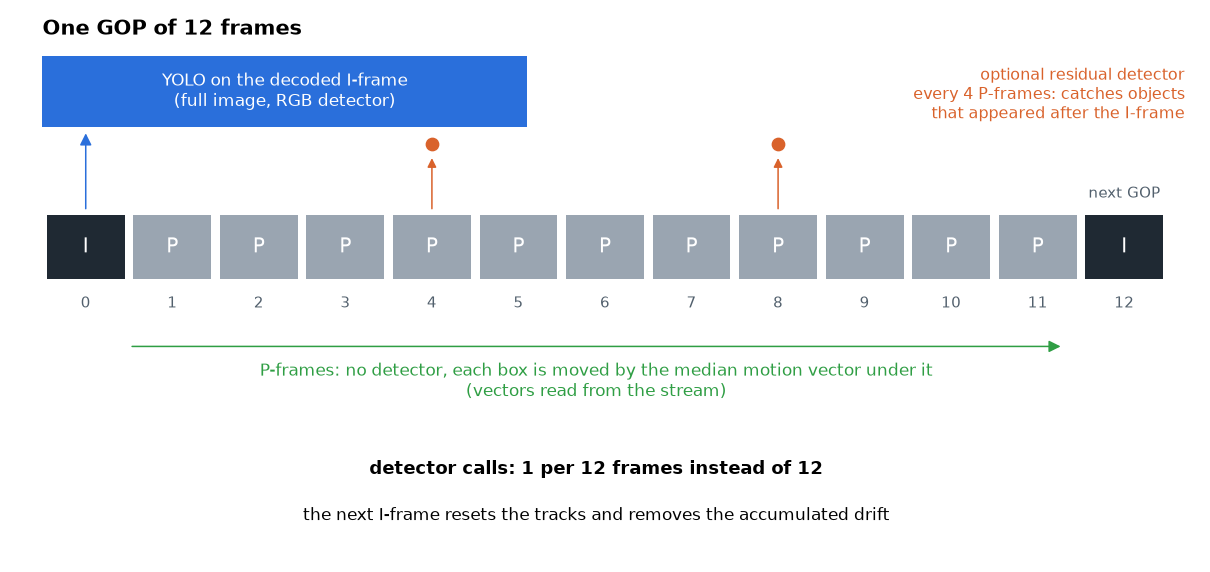
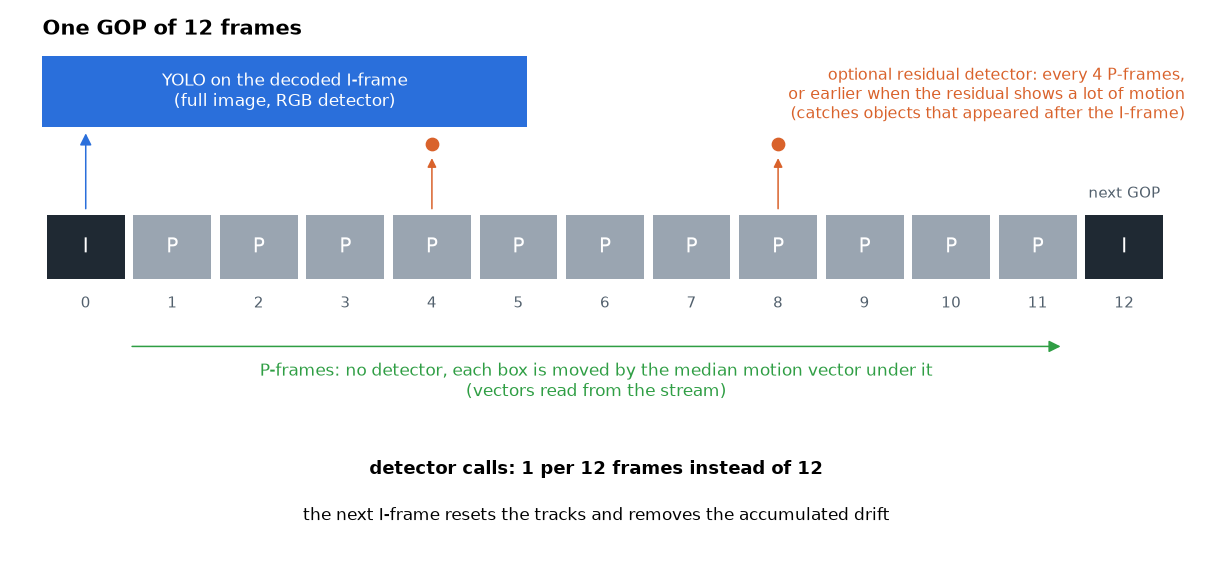
Show the motion trigger in the GOP schema

Changed region(s): [[0.6421, 0.1189, 0.9785, 0.208]]

diff --git a/scripts/make_figures.py b/scripts/make_figures.py
@@ -70,7 +70,7 @@ def gop(length=12, residual_every=4):
     for k in range(residual_every, length, residual_every):
         ax.add_patch(FancyArrowPatch((k + 0.5, 0.95), (k + 0.5, 1.75), arrowstyle="-|>", mutation_scale=12, color=COLORS["residual"]))
         ax.plot(k + 0.5, 1.9, "o", color=COLORS["residual"], ms=8)
-    ax.text(length + 1.2, 2.6, "optional residual detector\nevery %d P-frames: catches objects\nthat appeared after the I-frame" % residual_every,
+    ax.text(length + 1.2, 2.6, "optional residual detector: every %d P-frames,\nor earlier when the residual shows a lot of motion\n(catches objects that appeared after the I-frame)" % residual_every,
             ha="right", va="center", fontsize=10.5, color=COLORS["residual"])
     ax.add_patch(FancyArrowPatch((1.0, -0.95), (length - 0.2, -0.95), arrowstyle="-|>", mutation_scale=16, color=COLORS["mv"]))
     ax.text(length / 2 + 0.4, -1.65, "P-frames: no detector, each box is moved by the median motion vector under it\n(vectors read from the stream)", ha="center", fontsize=11, color=COLORS["mv"])

diff --git a/README.md b/README.md
@@ -33,9 +33,9 @@ RGB, motion vectors and residual of the same P-frames, with a zoom on the drone.
 
 ![RGB, motion vectors and residual](docs/flows.png)
 
-One GOP: the detector runs on the I-frame, the P-frames only move the boxes with the stream's motion vectors, the residual detector is optional (`scripts/track_gop.py`).
+One GOP: the detector runs on the I-frame, the P-frames only move the boxes with the stream's motion vectors, the residual detector is optional and runs every N P-frames (`--residual-every`) and/or when the share of pixels with a large residual passes a threshold (`--residual-motion`, `scripts/track_gop.py`).
 
-![Detection over a GOP](docs/gop.png?v=2)
+![Detection over a GOP](docs/gop.png?v=3)
 
 Confidence on DUT Anti-UAV, held-out sequences, same ByteTrack settings, `conf` 0.1 (`results/metrics_dut_anti_uav_test_platform_*_heldout.json`). At the lowest threshold the recall is the same (73.1 % RGB, 72.6 % residual) but the precision is 42.2 % for the RGB model and 78.2 % for the residual one; the RGB model needs a threshold of about 0.7 to reach the precision the residual model has at 0.1, and loses recall on the way.
 
